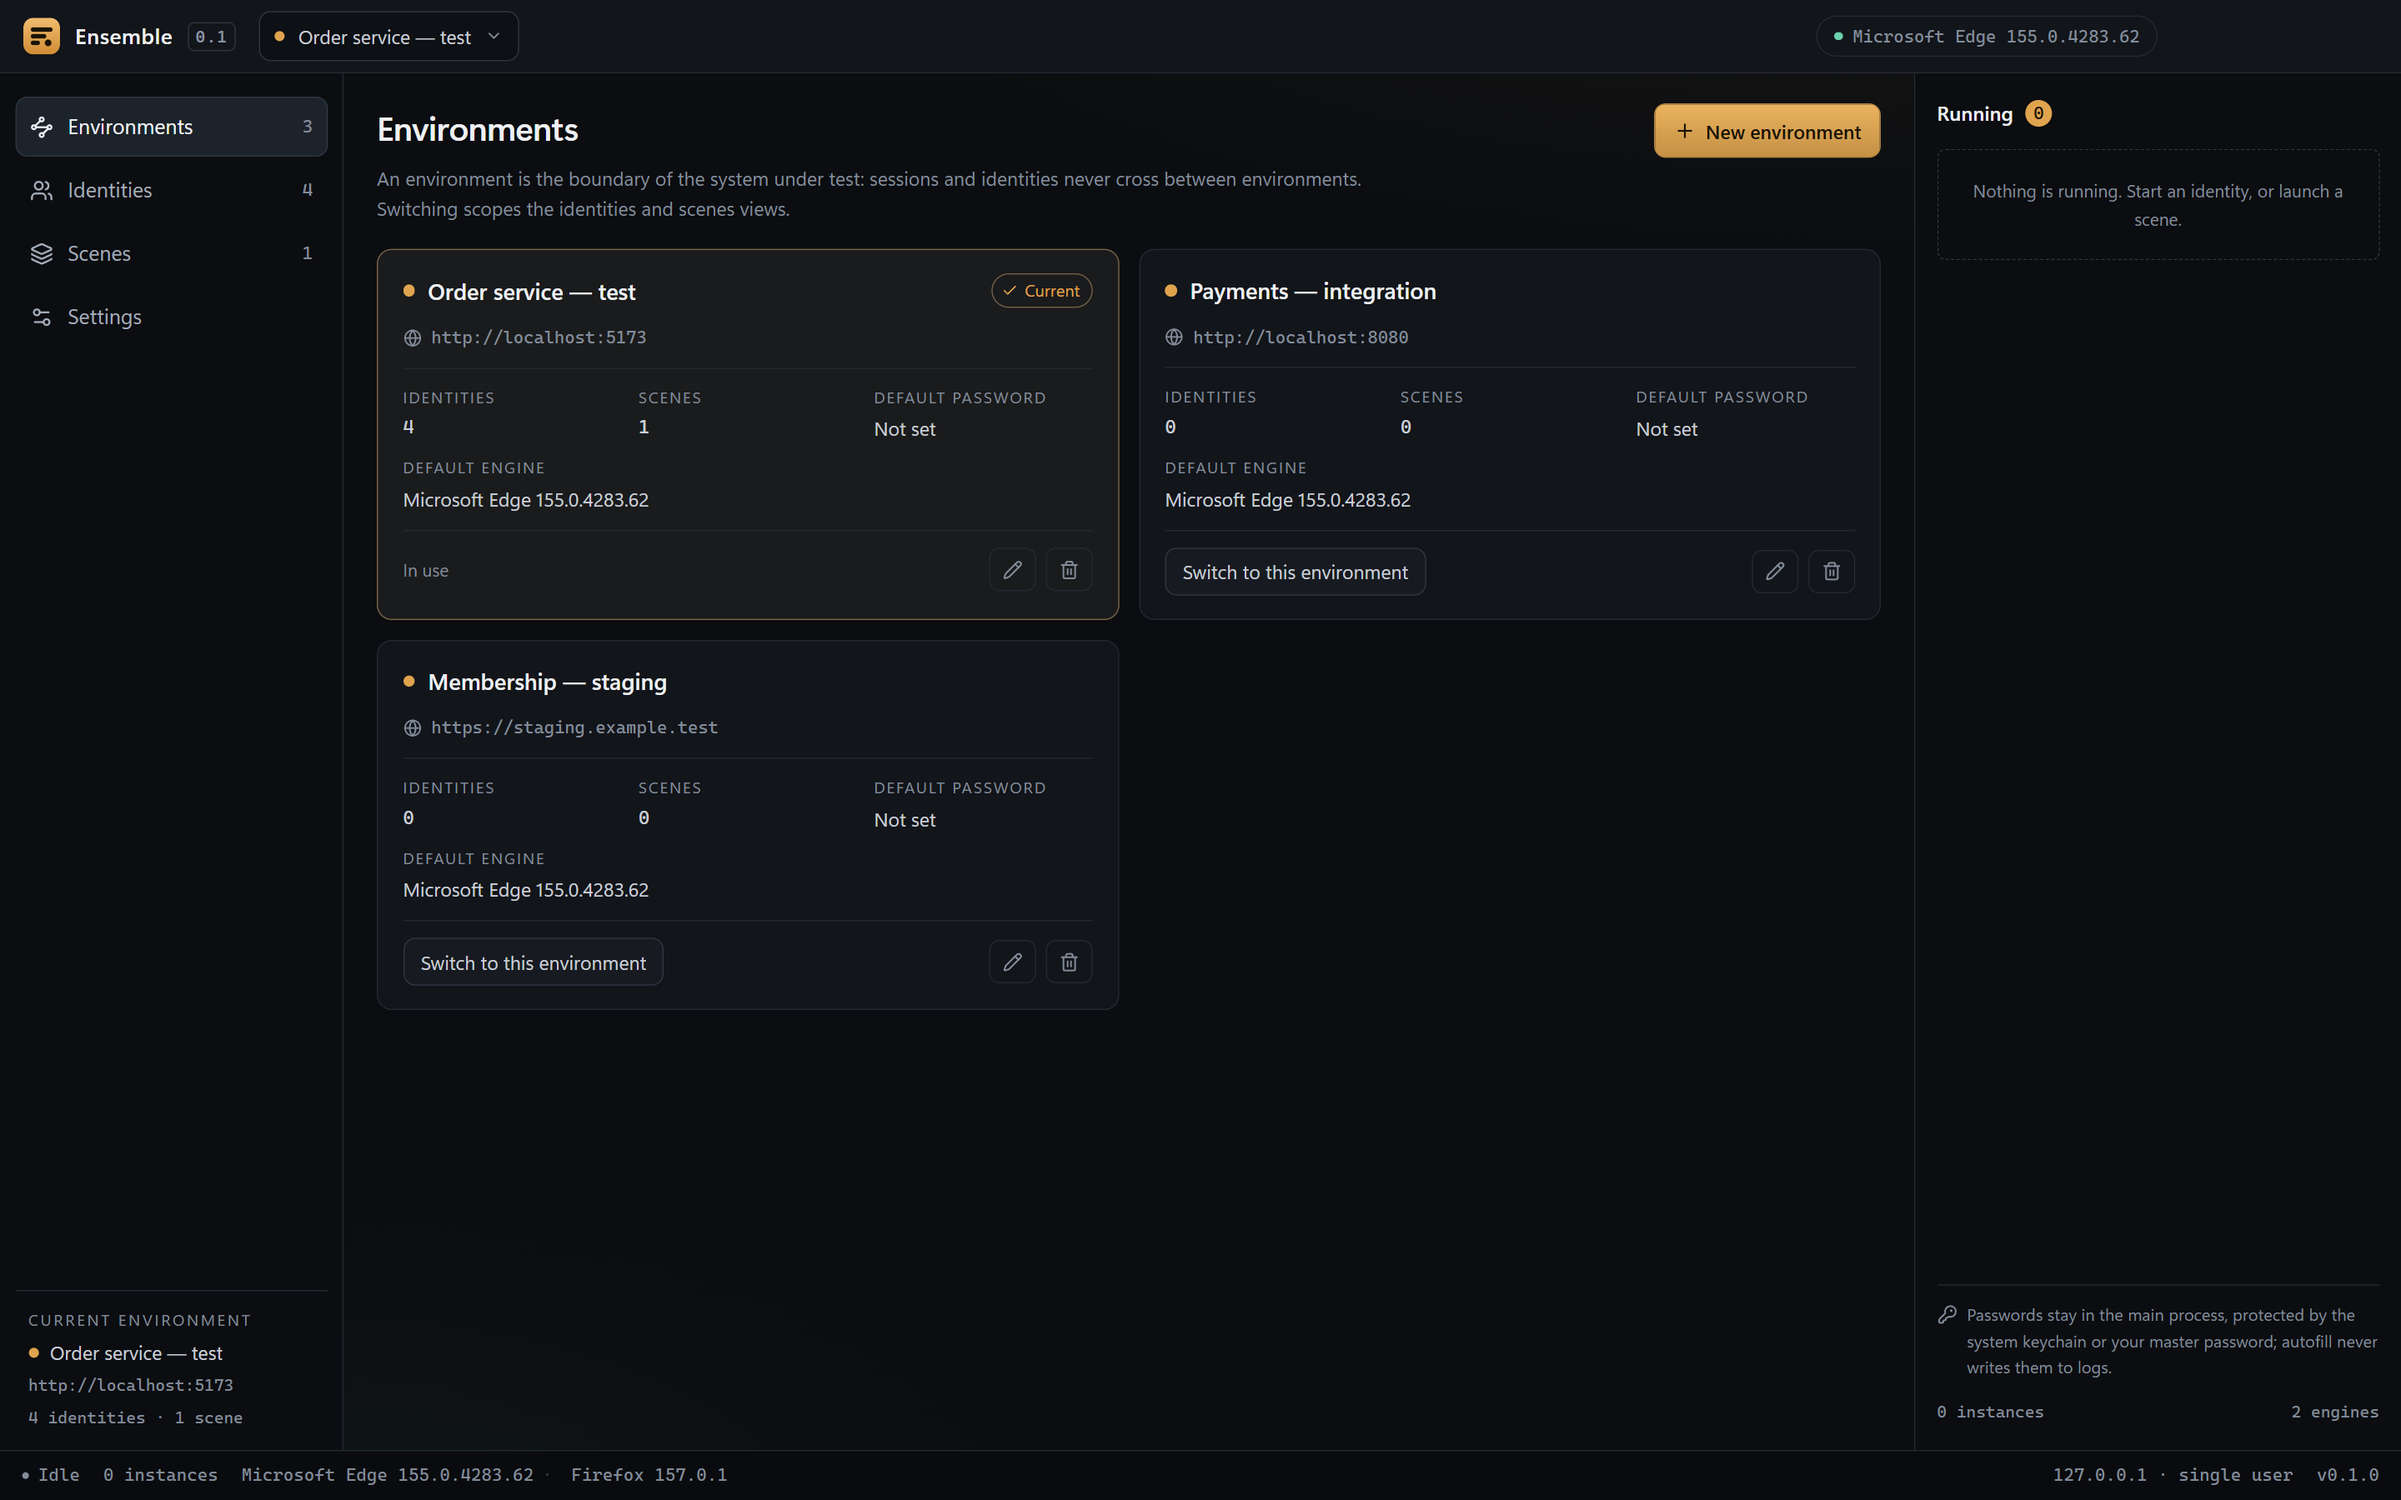
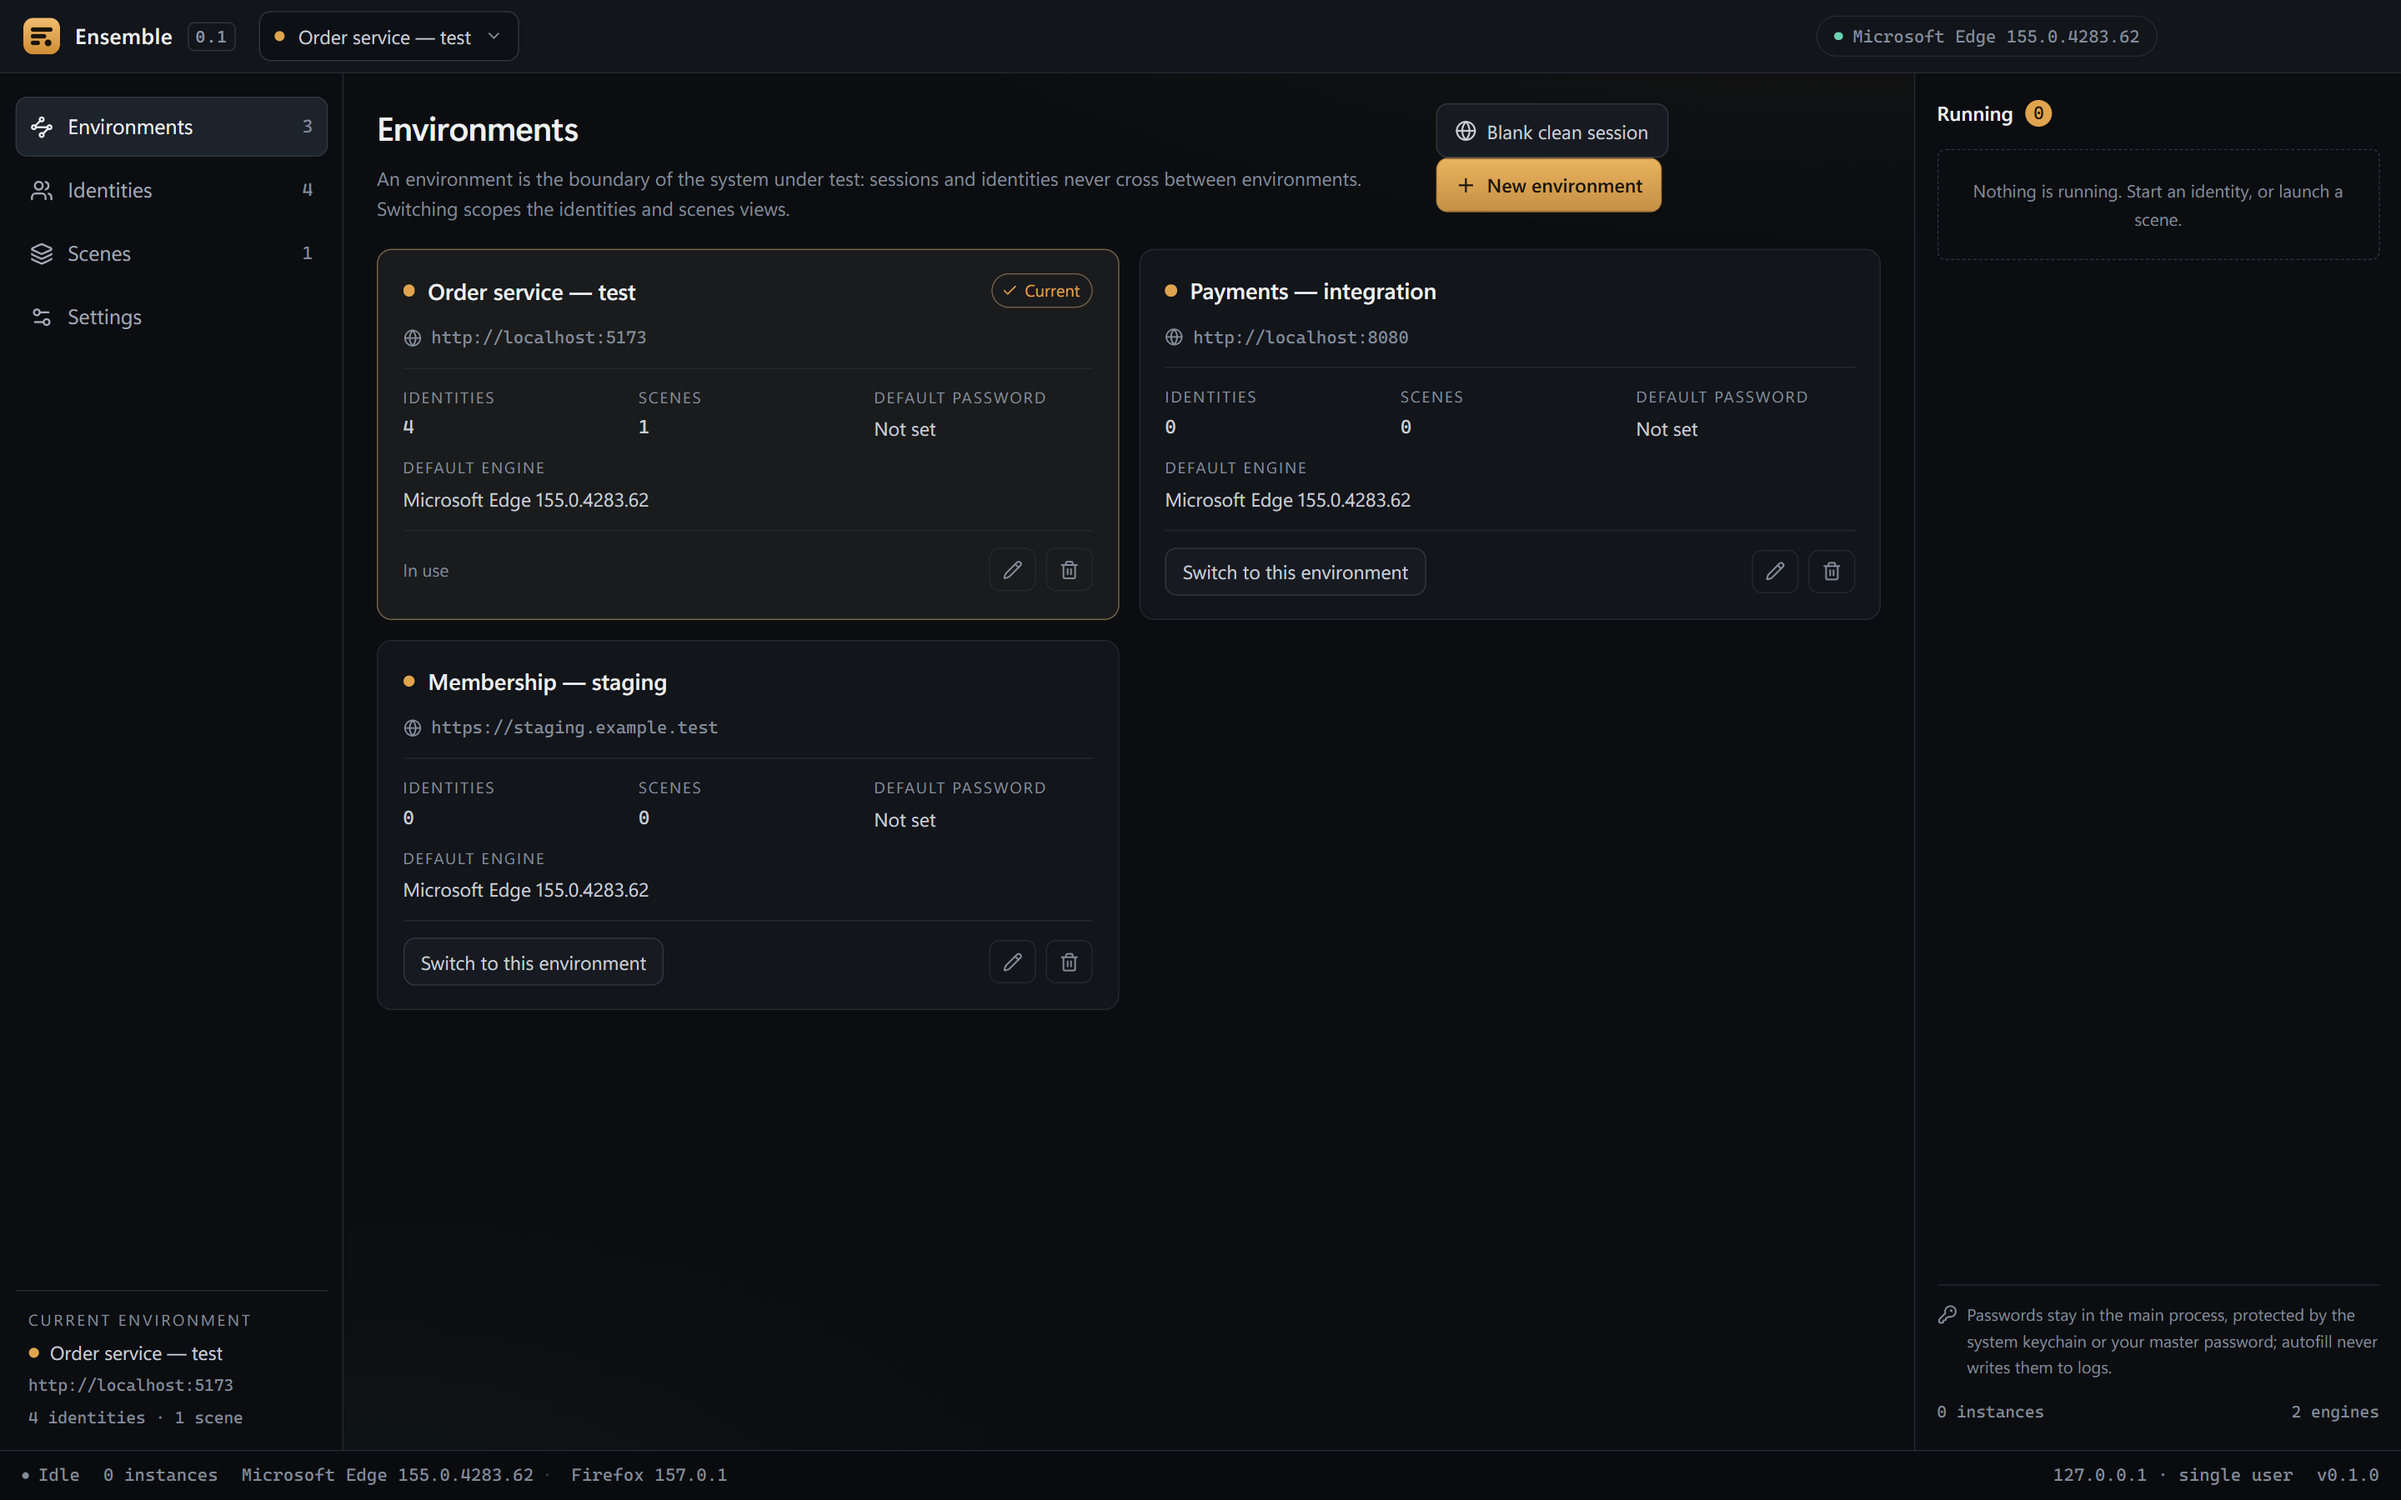
docs(root): 补干净会话与标签页修复说明，更新环境页截图

Changed region(s): [[0.5938, 0.0622, 0.7812, 0.1556]]

diff --git a/docs/engineering/踩坑库.md b/docs/engineering/踩坑库.md
@@ -265,6 +265,27 @@
 - **日期**：2026-10-19
 - **状态**：有效（已落地，`tests/layout-snap.test.ts` 覆盖）
 
+### 设置页标签行右侧多出一条垂直滚动条，把底部分隔线截断
+
+- **环境**：设置页 tab 行，Windows/Chromium
+- **原因**：标签行用了 `overflow-x: auto`。CSS 规定一个轴设为 `auto` 时，另一个轴的
+  `visible` 会被算成 `auto`；而激活标签用 `margin-bottom: -1px` 去压住底部分隔线，
+  内容比盒子高 1px，于是多出一条竖向滚动条，正好盖住分隔线右端。
+- **解决**：标签行改为 `flex-wrap: wrap` + `overflow: visible`，窄窗口换行而不是横向滚动。
+  需要横向滚动时，不要用负 margin 让内容溢出容器。
+- **日期**：2026-10-19
+- **状态**：有效（已落地）
+
+### 空白干净会话启动要等 15 秒
+
+- **环境**：干净会话，`about:blank`
+- **原因**：启动器默认等待「非 about:blank 的页面目标」出现，空白页永远不满足条件，
+  只能等满超时再退化。
+- **解决**：`startUrl` 本身是 `about:blank` 时跳过该等待，直接取第一个页面目标。
+  启动耗时从 15 秒降到约 1 秒。
+- **日期**：2026-10-19
+- **状态**：有效（已落地）
+
 ---
 
 ### 新建实例仍是登录状态，并弹出同步提示与扩展欢迎页

diff --git a/README.en.md b/README.en.md
@@ -42,7 +42,7 @@ Environment 1—N identities, environment 1—N scenes, scene N—N identities. 
 - **No-layout mode**: on a small screen, every window opens full size and overlaps — switch with the taskbar instead of shrinking four windows into tiles too small to use
 - **Reopen a single member**: closed one account by mistake? Reopen just that window from the scene detail instead of relaunching the whole scene
 - **Credential protection**: OS keychain encryption (DPAPI / Keychain / keyring), optionally hardened with an app master password
-- **Clean sessions**: throwaway windows that never log in and are deleted on close
+- **Clean sessions**: throwaway windows that never log in and are deleted on close; the environments page can also open a blank one that belongs to no environment
 - **Process reclamation**: on quit, only browsers launched against Ensemble's own profile root are stopped
 - **One entry per job**: the rail navigates environments / identities / scenes / settings; the title bar only switches environments
 - **Let an AI do the data entry**: a built-in MCP endpoint receives environments, identities and scenes from your AI client

diff --git a/docs/architecture.md b/docs/architecture.md
@@ -142,6 +142,8 @@ Scene        N ── 1 LayoutPreset（内置或用户自定义）
   `shutdownAndQuit()`：先 `mcpServer.stop()`，再 `tray.destroy()`，最后
   `service.shutdown()` 回收浏览器。顺序不能反——否则 AI 可能在浏览器回收途中发起新启动。
 - `window-all-closed` 在托盘模式下直接返回，不触发退出；关闭托盘模式后恢复原有行为。
+- 干净会话的 profile 放在 `profiles/<envId>/clean-*`；不属于任何环境的空白会话放在
+  `profiles/clean/clean-*`，独立分段，删除环境不会误停它们，启动清扫仍会覆盖。
 - 启动时清理 `--user-data-dir` 指向自有 `profiles/` 根目录的残留进程。
 - 停止单个实例：CDP `Browser.close` → 等待 → 按 PID 兜底。
 - 场景启动是原子的：中途失败会回收本次已拉起的窗口，不留下半套。
